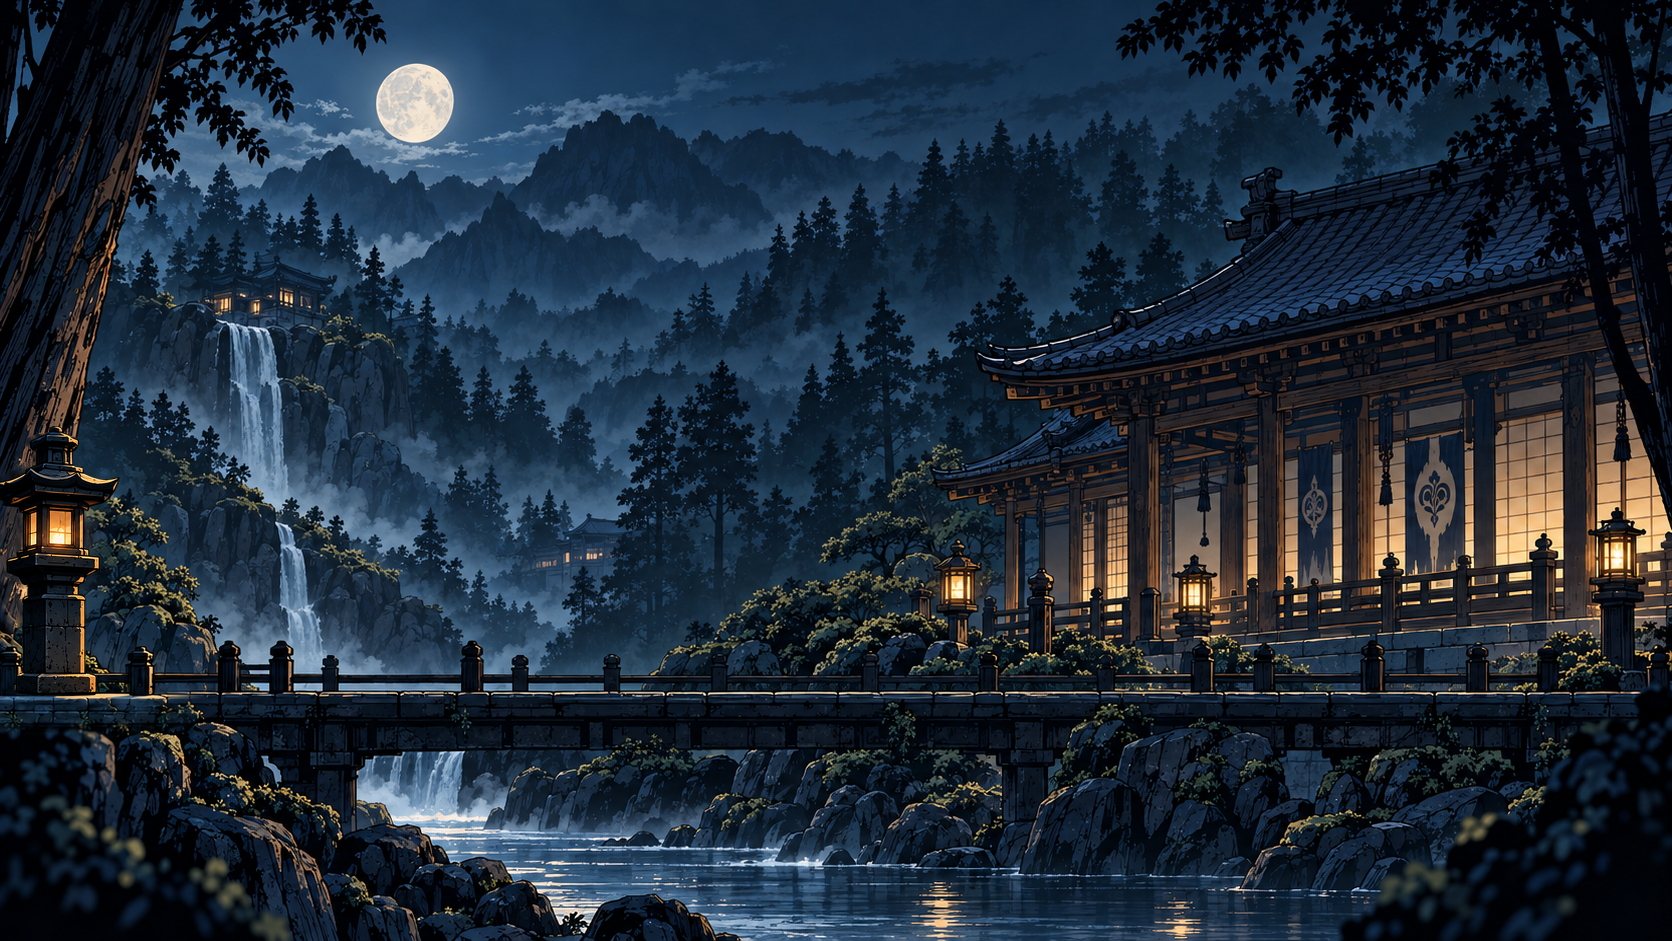
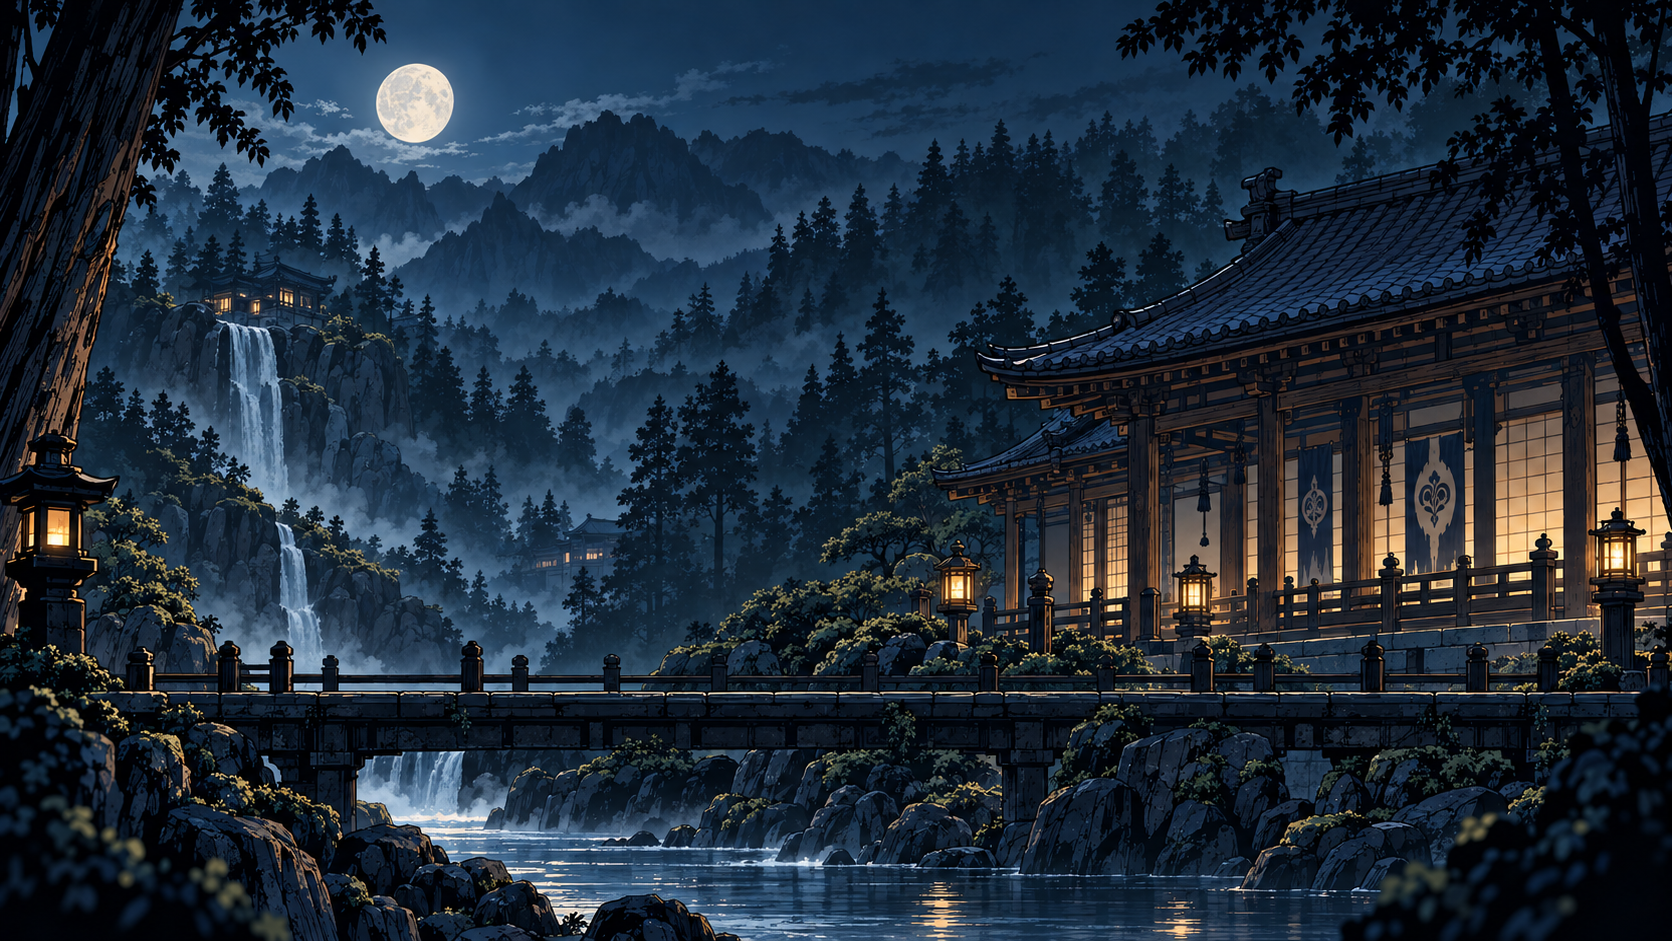
chore: preserve prototype playtest adjustments for integration

Changed region(s): [[0.0, 0.4623, 0.1244, 0.7705]]

diff --git a/Assets/Runtime/Game/KarmaGame.Camera.cs b/Assets/Runtime/Game/KarmaGame.Camera.cs
@@ -51,18 +51,22 @@ namespace KarmaPrototype
             float blend = 1 - Mathf.Exp(-6 * Time.unscaledDeltaTime);
             GameCamera.orthographicSize = snap ? targetSize : Mathf.Lerp(GameCamera.orthographicSize, targetSize, blend);
             float halfWidth = GameCamera.orthographicSize * GameCamera.aspect;
-            float left = Mathf.Max(KarmaStage.ArenaLeft, stageBackgroundBounds.min.x);
-            float right = Mathf.Min(KarmaStage.ArenaRight, stageBackgroundBounds.max.x);
             float playerX = snap || Player == null ? KarmaStage.Spawn.x : Player.Position.x;
             float facing = snap || Player == null ? 1 : Player.Facing;
-            float x = right - left <= halfWidth * 2 ? (left + right) / 2
-                : Mathf.Clamp(playerX + facing * KarmaSpace.Units(2), left + halfWidth, right - halfWidth);
+            float x = FollowX(playerX + facing * KarmaSpace.Units(2), halfWidth);
             var target = encounterFocus ?? new Vector3(x, stageBackgroundBounds.center.y, -10);
             GameCamera.transform.position = snap ? target
                 : Vector3.Lerp(GameCamera.transform.position - lastShake, target,
                     blend);
             lastShake = Vector3.zero;
         }
+        float FollowX(float desiredX, float halfWidth)
+        {
+            float left = Mathf.Max(KarmaStage.ArenaLeft, paintedBackgroundBounds.min.x + halfWidth);
+            float right = Mathf.Min(KarmaStage.ArenaRight, paintedBackgroundBounds.max.x - halfWidth);
+            return left <= right ? Mathf.Clamp(desiredX, left, right) : paintedBackgroundBounds.center.x;
+        }
+
         // The combat frame is a crop of the panorama. Film edge kills against
         // the full painting, leaving room around the silhouette and its effects.
         static Vector3 InsideBackdrop(Vector3 focus, float size, float aspect, Bounds painting)
@@ -153,13 +157,7 @@ namespace KarmaPrototype
                 var wideFocus = new Vector3(Player.Position.x + Player.Facing * KarmaSpace.Units(2),
                     hasStageBackground ? stageBackgroundBounds.center.y : 4.4f, -10);
                 if (hasStageBackground)
-                {
-                    float left = Mathf.Max(KarmaStage.ArenaLeft, stageBackgroundBounds.min.x);
-                    float right = Mathf.Min(KarmaStage.ArenaRight, stageBackgroundBounds.max.x);
-                    float halfWidth = combatSize * GameCamera.aspect;
-                    wideFocus.x = right - left <= halfWidth * 2 ? (left + right) * 0.5f
-                        : Mathf.Clamp(wideFocus.x, left + halfWidth, right - halfWidth);
-                }
+                    wideFocus.x = FollowX(wideFocus.x, combatSize * GameCamera.aspect);
                 // Keep both fighters on screen while the next name is up, even
                 // if the previous fight ended with a projectile from the other wall.
                 float nameSize = combatSize;

diff --git a/Assets/Runtime/SwordWave/Patterns/SwordWaveVolley.cs b/Assets/Runtime/SwordWave/Patterns/SwordWaveVolley.cs
@@ -6,6 +6,7 @@ namespace KarmaPrototype
     {
         static class SwordWaveVolley
         {
+            const float VolleyRange = 8 * KarmaSpace.Scale;
             sealed class AdvertisedShot
             {
                 public Vector2 origin, velocity;
@@ -21,7 +22,7 @@ namespace KarmaPrototype
                 origin = new Vector2(owner.Position.x + owner.direction * KarmaSpace.Scale,
                     KarmaSpace.Units(high ? 3.3f : 1.05f));
                 velocity = Vector2.right * owner.direction * Mathf.Max(KarmaSpace.Scale, owner.Tuning.sword.swordSpeed * 1.3f);
-                life = KarmaBossProjectileGeometry.SwordShotLife(origin, velocity, float.MaxValue);
+                life = KarmaBossProjectileGeometry.SwordShotLife(origin, velocity, VolleyRange / velocity.magnitude);
                 if (mark != null)
                 {
                     mark.GetComponent<KarmaAttackWarning>().SetPath(mark, origin, origin + velocity * life, size, false, true);
@@ -58,8 +59,7 @@ namespace KarmaPrototype
                 {
                     bool high = (i % 2 != 0) ^ highFirst;
                     Vector2 origin = high ? second : first;
-                    float life = scars ? sword.WaveLife
-                        : KarmaBossProjectileGeometry.SwordShotLife(origin, velocity, float.MaxValue);
+                    float life = sword.WaveLife;
                     if (!scars) AimSW01(owner, high, null, out origin, out velocity, out life, waveSize);
                     var mark = owner.PathMark(origin, origin + velocity * life, waveSize);
                     if (!scars)
@@ -89,6 +89,7 @@ namespace KarmaPrototype
                     if (!scars)
                     {
                         sword.ReleaseSW01(origin, velocity, waveSize, life, high);
+                        owner.ShowFirstImitation("그때 네 검은 여기까지 닿았지. 내 검도 닿는군.");
                         owner.animator.ReleaseSwordBody("Volley", i);
                         sword.WaveLaunchVFX(origin, velocity, waveSize, false, high);
                     }
@@ -102,7 +103,7 @@ namespace KarmaPrototype
                 float facing = target.x < from.x ? -1 : 1;
                 Vector2 origin = from + Vector2.right * facing * KarmaSpace.Scale;
                 Vector2 velocity = Vector2.right * facing * Mathf.Max(KarmaSpace.Scale, owner.Tuning.sword.swordSpeed * (attack == EnemyAttack.SW01 ? 1.3f : 1));
-                float life = attack == EnemyAttack.SW01 ? float.MaxValue : sword.WaveLife;
+                float life = attack == EnemyAttack.SW01 ? VolleyRange / velocity.magnitude : sword.WaveLife;
                 return sword.SwordShotCanReach(new Vector2(origin.x, KarmaSpace.Units(1.05f)), velocity, sword.SwordSize(attack), life, target)
                     || sword.SwordShotCanReach(new Vector2(origin.x, KarmaSpace.Units(3.3f)), velocity, sword.SwordSize(attack), life, target);
             }

diff --git a/Assets/Runtime/SwordWave/Patterns/SWBasic.cs b/Assets/Runtime/SwordWave/Patterns/SWBasic.cs
@@ -28,7 +28,7 @@ namespace KarmaPrototype
                 Vector2 origin = KarmaSwordWaveAnimation.BasicLaunchOrigin(owner, owner.Position, owner.direction);
                 Vector2 aim = SwordBossBehavior.SwordAim(origin, sword.SwordPlayerBounds.center, owner.direction);
                 Vector2 velocity = aim * sword.BasicSwordSpeed;
-                float flightLife = KarmaBossProjectileGeometry.SwordShotLife(origin, velocity, float.MaxValue);
+                float flightLife = KarmaBossProjectileGeometry.SwordShotLife(origin, velocity, sword.BasicSwordLife);
                 float warning = owner.Warning(0.4f);
                 var mark = owner.PathMark(origin, origin + velocity * flightLife, sword.BasicSwordSize);
                 KarmaSwordAttackPolish.Warning(mark);
@@ -38,16 +38,12 @@ namespace KarmaPrototype
                 mark.gameObject.SetActive(false); Destroy(mark.gameObject);
                 owner.state = ActionState.Attack; owner.animator.Attack(aim);
                 owner.animator.BeginBasicRelease(Mathf.Min(2f / 24, sword.BasicReleaseWait));
-                // Recovery clears ordinary pattern objects. Let this released
-                // wave finish at the real boundary under existing sword ownership.
                 var shot = owner.Attack(origin, velocity, sword.BasicSwordSize, flightLife,
                     Settings.basicDamageMultiplier, parent: sword.PersistentRoot);
                 KarmaSwordBasicPresentation.Ranged(owner.game, owner, shot, velocity,
                     sword.BasicSwordSize, sword.SwordSize(EnemyAttack.SW01));
                 KarmaSwordWaveAnimation.AlignBasicVisual(shot);
                 KarmaAudio.Play(KarmaSfxId.SwWaveLaunch, lifetimeOwner: shot);
-                // Keep the previous casting/recovery/selection cadence. The old
-                // ten-unit lifetime remains only the existing release wait here.
                 yield return owner.Wait(sword.BasicReleaseWait);
                 yield return owner.Recovery(0.5f);
             }

diff --git a/Assets/Runtime/Combat/KarmaProjectile.cs b/Assets/Runtime/Combat/KarmaProjectile.cs
@@ -12,14 +12,15 @@ namespace KarmaPrototype
         Vector2 velocity;
         float damage, radius, remaining;
         public static void Spawn(KarmaGame game, Vector2 position, Vector2 velocity, float damage,
-            Color color, float radius = 0.2f * KarmaSpace.Scale)
+            Color color, float radius = 0.2f * KarmaSpace.Scale, float? maxDistance = null)
         {
             var sr = KarmaVisuals.Box(game.World, "Player projectile",
                 position, Vector2.one * radius * 2, color, 7);
             var shot = sr.gameObject.AddComponent<KarmaProjectile>();
             shot.trainingId = ++nextTrainingId;
             shot.game = game; shot.velocity = velocity; shot.damage = damage;
-            shot.radius = radius; shot.remaining = 3;
+            shot.radius = radius;
+            shot.remaining = maxDistance.HasValue ? Mathf.Max(0, maxDistance.Value) / Mathf.Max(0.001f, velocity.magnitude) : 3;
             KarmaRemnantVFX.ProjectileLook(sr, velocity);
             KarmaCombatVFX.AttachAttack(sr, velocity, new Color(0.35f, 0.75f, 1));
             game.Projectiles.Add(shot);

diff --git a/Assets/Runtime/Combat/KarmaEnemy.cs b/Assets/Runtime/Combat/KarmaEnemy.cs
@@ -33,6 +33,15 @@ namespace KarmaPrototype
         public Vector2 Position { get { return transform.position; } }
         public string DisplayName { get; private set; }
         public float FightSeconds { get; private set; }
+        string imitationLine;
+        float imitationLineUntil;
+        internal string CombatImitationLine => FightSeconds < imitationLineUntil ? imitationLine : null;
+        void ShowFirstImitation(string line)
+        {
+            if (imitationLine != null || !Alive || !game.IsCombat) return;
+            imitationLine = line;
+            imitationLineUntil = FightSeconds + 2.8f;
+        }
         public bool Stunned { get { return state == ActionState.Stunned; } }
         public bool Invulnerable { get { return fullShield; } }
         public bool Armored { get { return fullShield || behavior != null && behavior.Armored; } }

diff --git a/Assets/Runtime/SwordWave/Patterns/SW02.cs b/Assets/Runtime/SwordWave/Patterns/SW02.cs
@@ -25,8 +25,9 @@ namespace KarmaPrototype
                 KarmaStage.ArenaRight - size.x / 2 - (facing < 0 ? corridor : launchRoom)),
                 Floor + size.y / 2);
             }
+            const float AimedSlashRange = 10 * KarmaSpace.Scale;
             float AimedSlashLife(Vector2 origin, Vector2 velocity)
-            { return KarmaBossProjectileGeometry.AimedSlashBoundaryLife(origin, velocity, sword.SwordSize(EnemyAttack.SW02), float.MaxValue); }
+            { return KarmaBossProjectileGeometry.AimedSlashBoundaryLife(origin, velocity, sword.SwordSize(EnemyAttack.SW02), AimedSlashRange / velocity.magnitude); }
             float AimedSlashWarningTime(Vector2 origin, float facing, Vector2 size)
             {
                 // At an outguard-facing wall the clamped rear edge can extend behind

diff --git a/Assets/Runtime/UI/KarmaHUD.Combat.cs b/Assets/Runtime/UI/KarmaHUD.Combat.cs
@@ -68,6 +68,11 @@ namespace KarmaPrototype
             string name = enemy != null && enemy.Alive ? enemy.DisplayName :
                 game.Phase == RunPhase.GuardianFallen || game.Phase == RunPhase.Ending ? fallenBossName : null;
             if (name == null) return;
+            if (game.IsCombat && enemy != null && enemy.Alive && enemy.CombatImitationLine is string line)
+            {
+                Panel(new Rect(290, 84, 700, 44), opacity);
+                Label(300, 87, 680, 38, line, centered);
+            }
             float ratio = enemy != null ? Mathf.Clamp01(enemy.Health / Mathf.Max(1, enemy.MaxHealth)) : 0;
             // Keep the boss readable above the action, clear of the player's corner HUD.
             const float left = 330, width = 620, y = 56;

diff --git a/Assets/Runtime/Combat/KarmaEssences.cs b/Assets/Runtime/Combat/KarmaEssences.cs
@@ -56,7 +56,7 @@ namespace KarmaPrototype
                     readyAt[0] = Time.time + c.swordWaveCooldown;
                     player.BeginSwordWave();
                     KarmaProjectile.Spawn(game, player.Position + Vector2.right * player.Facing * KarmaSpace.Units(0.7f),
-                        Vector2.right * player.Facing * c.swordWaveSpeed, c.swordWaveDamage, c.swordWaveColor, KarmaSpace.Units(0.25f));
+                        Vector2.right * player.Facing * c.swordWaveSpeed, c.swordWaveDamage, c.swordWaveColor, KarmaSpace.Units(0.25f), c.swordWaveRange);
                     break;
                 case Essence.RisingSlash:
                     readyAt[1] = Time.time + c.risingSlashCooldown;

diff --git a/Assets/Runtime/Game/KarmaConfig.cs b/Assets/Runtime/Game/KarmaConfig.cs
@@ -24,6 +24,7 @@ namespace KarmaPrototype
         [Header("액티브 기술")]
         [Min(0.1f)] [InspectorName("검기 쿨타임")] public float swordWaveCooldown = 2.2f;
         [Min(1)] [InspectorName("검기 피해")] public float swordWaveDamage = 72;
+        [Min(0.1f)] [InspectorName("검기 사정거리")] public float swordWaveRange = 8 * KarmaSpace.Scale;
         [Min(1)] [InspectorName("검기 속도")] public float swordWaveSpeed = 14 * KarmaSpace.Scale;
         [Min(0.1f)] [InspectorName("상승베기 쿨타임")] public float risingSlashCooldown = 1.6f;
         [Min(0.1f)] [InspectorName("보호막 쿨타임")] public float guardCooldown = 5;

diff --git a/Assets/Runtime/Guard/KarmaGuardBossBehavior.cs b/Assets/Runtime/Guard/KarmaGuardBossBehavior.cs
@@ -124,7 +124,10 @@ namespace KarmaPrototype
                 if (!resolvingContact || owner.game.Player.ParryCount == parriesBeforeContact)
                     KarmaRemnantVFX.Impact(owner.game, owner.Position, Essence.Guard);
                 if (AutoShieldActive)
+                {
+                    owner.ShowFirstImitation("이번엔… 아프지 않군. 네가 이렇게 막았지.");
                     KarmaAudio.Play(KarmaSfxId.GdShieldHit, gainScale: basicMelee ? 0.58f : 1f);
+                }
                 else
                     KarmaAudio.Play(KarmaSfxId.CombatGuardBlock);
             }

diff --git a/Assets/Runtime/RisingSlash/Patterns/UP01.cs b/Assets/Runtime/RisingSlash/Patterns/UP01.cs
@@ -30,6 +30,7 @@ namespace KarmaPrototype
                 float fallTime = Mathf.Clamp(Mathf.Abs(start.y - landing.y) / KarmaSpace.Units(8f), 0.38f, 0.62f);
                 if (owner.Active && start.y > landing.y)
                 {
+                    owner.ShowFirstImitation("그때 네가 날 내려다봤지. 지금은 내가 위다.");
                     owner.animator.StartRisingDescent(fallTime);
                     KarmaRisingAudio.Descent(fallTime);
                 }
